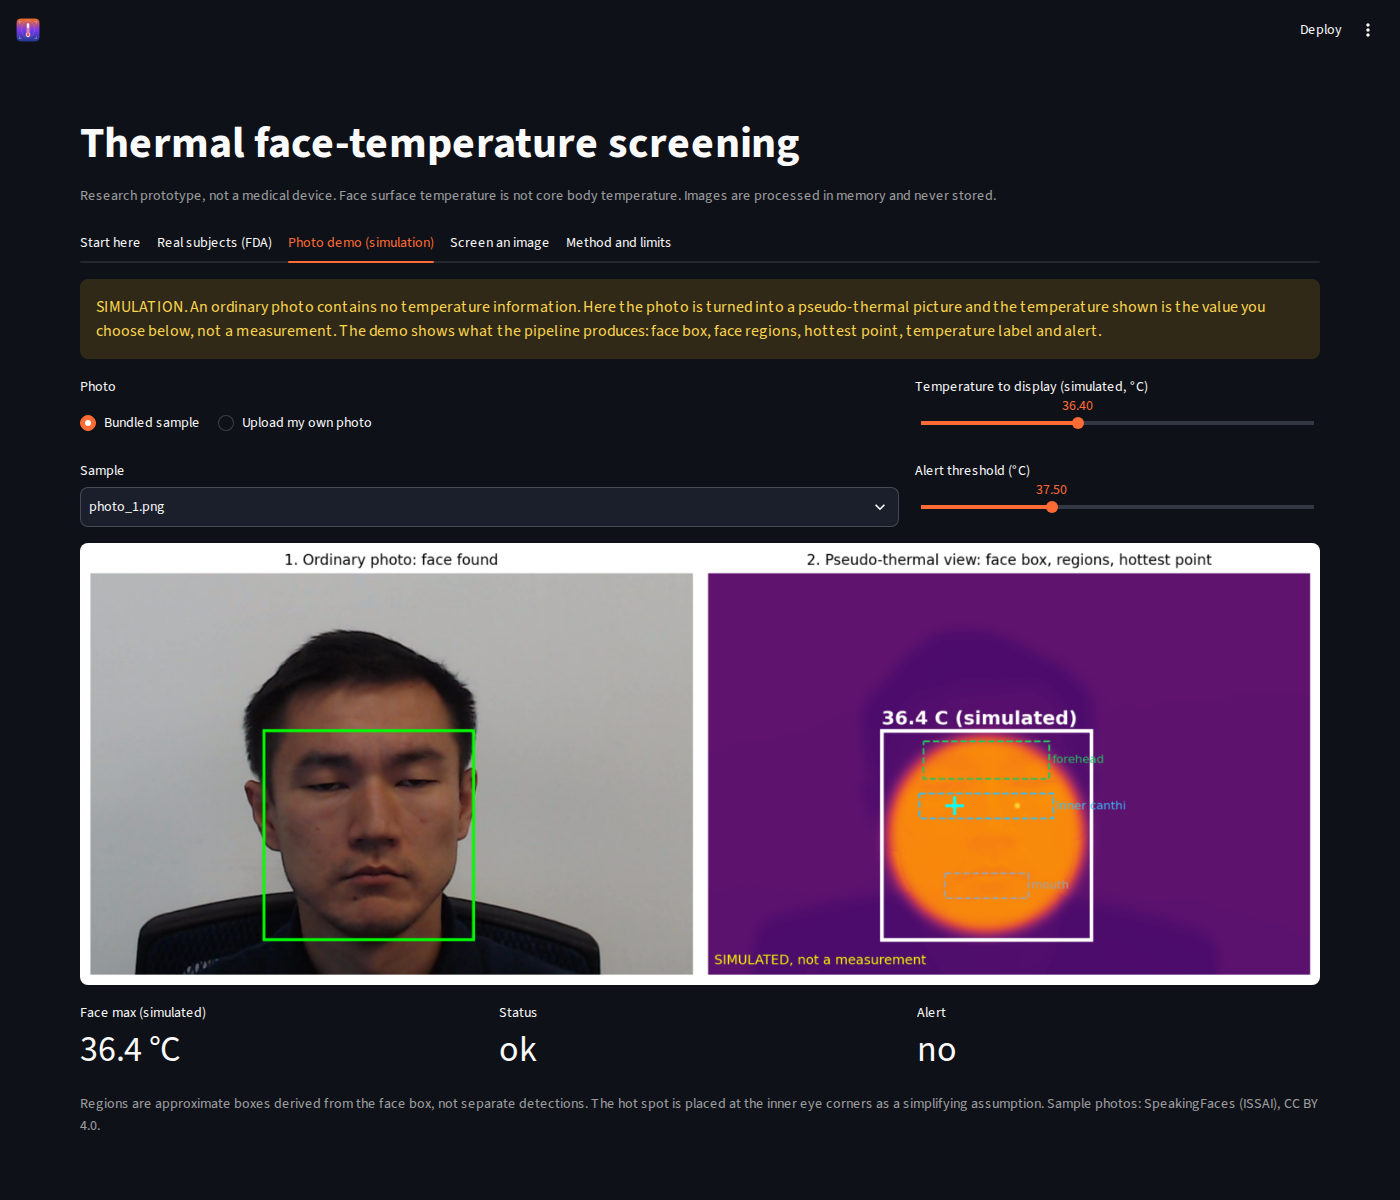
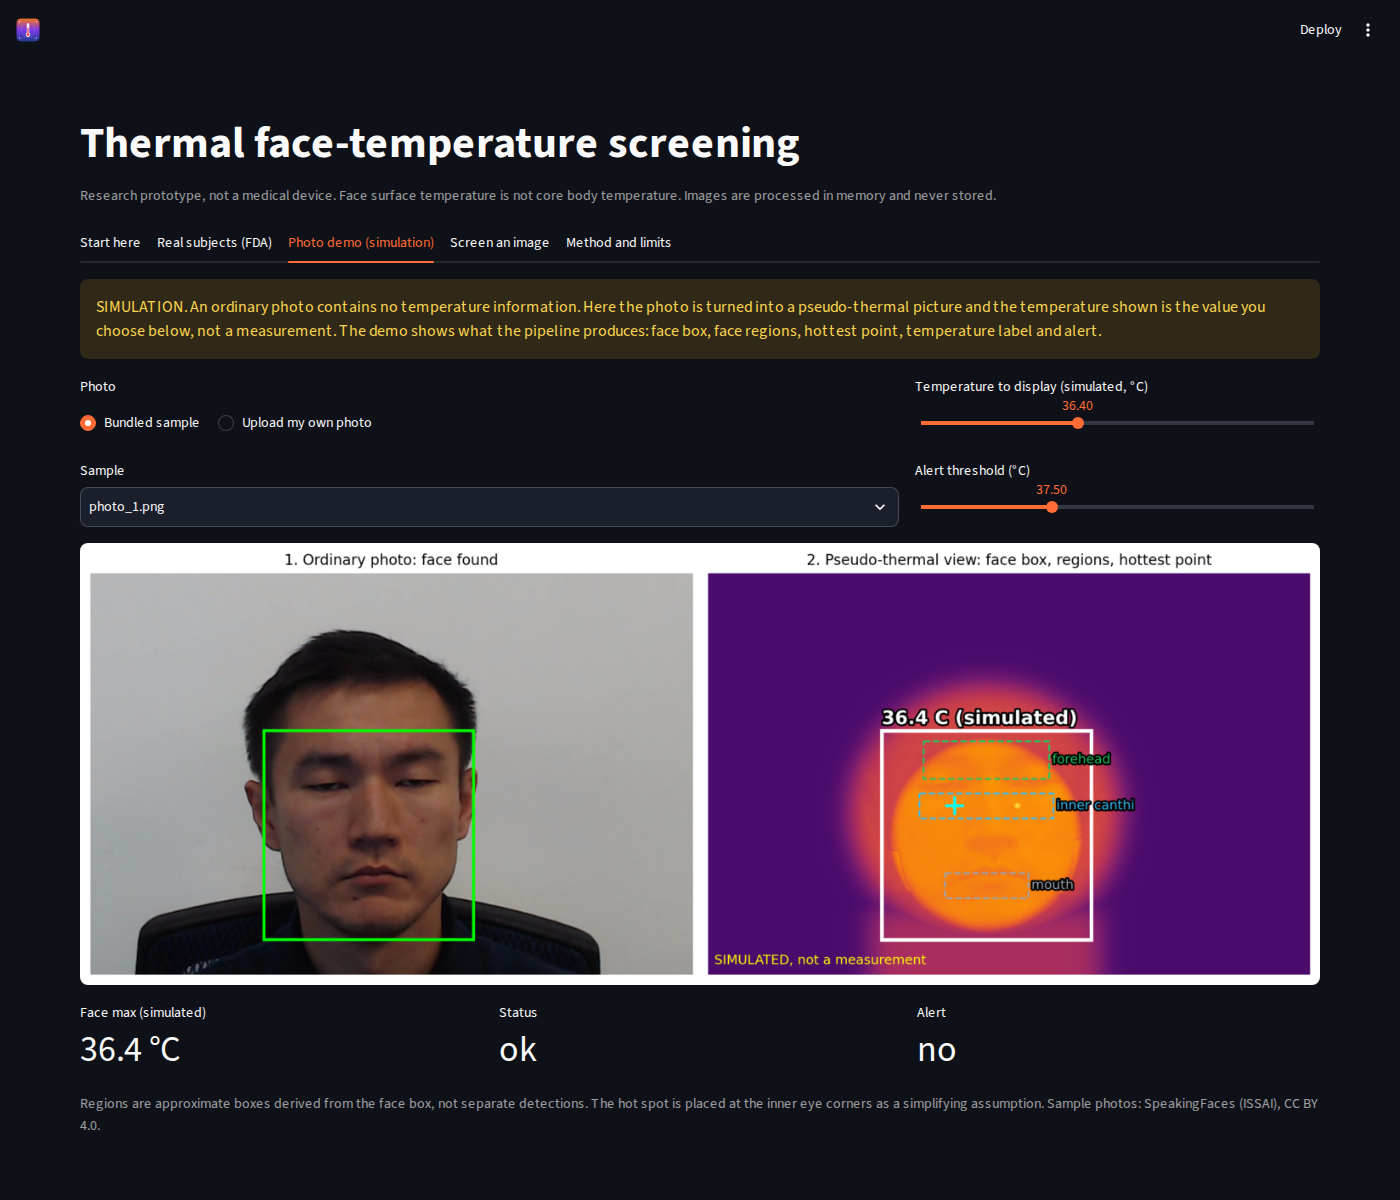
fix: add EGL libraries for MediaPipe on Streamlit Cloud; richer photo simulation; note round-4 hotspot shift

Changed region(s): [[0.5836, 0.555, 0.8293, 0.8325]]

diff --git a/src/pipeline/simulation.py b/src/pipeline/simulation.py
@@ -21,7 +21,9 @@ def region_boxes(box):
 
 
 def simulate_thermal(rgb, box, face_max_c, ambient_c=24.0, skin_offset_c=2.0):
-    """Returns (temp_c float32 HxW, (x, y) of the simulated hot spot). The maximum inside the box equals face_max_c."""
+    """Returns (temp_c float32 HxW, (x, y) of the simulated hot spot). The maximum inside the box equals face_max_c.
+    Face detail comes from the photo's local contrast (dark features such as brows and hair read cooler); hair, neck and
+    shoulders are set to fixed fractions of the skin temperature. All of it is illustrative."""
     if rgb.ndim != 3 or rgb.shape[2] != 3 or rgb.dtype != np.uint8:
         raise ValueError("expected an HxWx3 uint8 RGB photo")
     h, w = rgb.shape[:2]
@@ -30,14 +32,27 @@ def simulate_thermal(rgb, box, face_max_c, ambient_c=24.0, skin_offset_c=2.0):
     if x1 - x0 < 4 or y1 - y0 < 4:
         raise ValueError("face box too small")
     bw, bh = x1 - x0, y1 - y0
+    cx, cy = (x0 + x1) / 2.0, (y0 + y1) / 2.0
     gray = cv2.cvtColor(rgb, cv2.COLOR_RGB2GRAY).astype(np.float32) / 255.0
-    mask = np.zeros((h, w), np.float32)
-    cv2.ellipse(mask, (int((x0 + x1) / 2), int((y0 + y1) / 2)), (max(int(bw / 2 * 0.95), 1), max(int(bh / 2 * 0.95), 1)),
-                0, 0, 360, 1.0, -1)
-    mask = cv2.GaussianBlur(mask, (0, 0), max(1.0, bw * 0.03))
-    gray_s = cv2.GaussianBlur(gray, (0, 0), 6.0)
+    sigma = max(1.0, bw * 0.03)
+
+    def blob_ellipse(centre, axes, sig):
+        m = np.zeros((h, w), np.float32)
+        cv2.ellipse(m, (int(centre[0]), int(centre[1])), (max(int(axes[0]), 1), max(int(axes[1]), 1)), 0, 0, 360, 1.0, -1)
+        return cv2.GaussianBlur(m, (0, 0), sig)
+
+    face = blob_ellipse((cx, cy), (bw / 2 * 0.95, bh / 2 * 0.95), sigma)
+    head = blob_ellipse((cx, cy - 0.10 * bh), (bw / 2 * 1.30, bh / 2 * 1.25), sigma * 2)
+    body = np.zeros((h, w), np.float32)
+    body[min(int(y1 - 0.15 * bh), h):h, max(int(cx - 0.55 * bw), 0):min(int(cx + 0.55 * bw), w)] = 1.0       # neck
+    body[min(int(y1 + 0.35 * bh), h):h, max(int(cx - 1.6 * bw), 0):min(int(cx + 1.6 * bw), w)] = 1.0         # shoulders
+    body = cv2.GaussianBlur(body, (0, 0), sigma * 2)
+    gray_s = cv2.GaussianBlur(gray, (0, 0), 3.0)
+    lo, hi = np.percentile(gray[y0:y1, x0:x1], [2, 98])
+    gn = np.clip((gray - lo) / (hi - lo + 1e-6), 0.0, 1.0)
+    factor = np.maximum.reduce([body * 0.40, head * (0.55 + 0.10 * gray_s), face * (0.80 + 0.20 * gn)])
     skin = float(face_max_c) - skin_offset_c
-    t = ambient_c + (skin - ambient_c) * (0.12 * gray_s * (1.0 - mask) + mask * (0.85 + 0.15 * gray))
+    t = ambient_c + (skin - ambient_c) * factor
     spots = [(int(x0 + 0.35 * bw), int(y0 + 0.36 * bh)), (int(x0 + 0.65 * bw), int(y0 + 0.36 * bh))]
     yy, xx = np.mgrid[0:h, 0:w]
     for sx, sy in spots:

diff --git a/frontend/app.py b/frontend/app.py
@@ -13,6 +13,7 @@ import matplotlib
 matplotlib.use("Agg")
 import matplotlib.pyplot as plt
 from matplotlib.patches import Ellipse, Rectangle
+import matplotlib.patheffects as pe
 from PIL import Image
 from sklearn.linear_model import LinearRegression
 from sklearn.metrics import roc_auc_score, roc_curve
@@ -256,10 +257,10 @@ with tab_sim:
                 ax[1].add_patch(Rectangle((bx0, by0), bx1 - bx0, by1 - by0, fill=False, ec=colour, lw=2.5))
                 for (name, (rx0, ry0, rx1, ry1)), rc in zip(region_boxes(box).items(), ["#22c55e", "#38bdf8", "#9ca3af"]):
                     ax[1].add_patch(Rectangle((rx0, ry0), rx1 - rx0, ry1 - ry0, fill=False, ec=rc, lw=1.2, ls="--"))
-                    ax[1].text(rx1 + 4, (ry0 + ry1) / 2, name, color=rc, fontsize=8, va="center")
+                    ax[1].text(rx1 + 4, (ry0 + ry1) / 2, name, color=rc, fontsize=9, va="center", path_effects=[pe.withStroke(linewidth=2.5, foreground="black")])
                 if r.hotspot is not None:
                     ax[1].scatter([r.hotspot[0]], [r.hotspot[1]], marker="+", s=160, c="cyan", linewidths=2)
-                ax[1].text(bx0, max(by0 - 8, 14), f"{r.face_max_c:.1f} C (simulated)", color=colour, fontsize=13, fontweight="bold")
+                ax[1].text(bx0, max(by0 - 8, 14), f"{r.face_max_c:.1f} C (simulated)", color=colour, fontsize=13, fontweight="bold", path_effects=[pe.withStroke(linewidth=2.5, foreground="black")])
             ax[1].text(0.01, 0.02, "SIMULATED, not a measurement", transform=ax[1].transAxes, color="yellow", fontsize=9, va="bottom")
             ax[1].set_title("2. Pseudo-thermal view: face box, regions, hottest point", fontsize=10)
             for a in ax:

diff --git a/README.md b/README.md
@@ -109,7 +109,7 @@ One FLIR camera at about 0.8 m, 1,020 subjects, linear calibration with 5-fold c
 *Where the hottest point of the face lies, in 1003 FDA volunteers (round 1): the inner-canthus region (the inner corners of the eyes) contains it in 66%, the forehead region in 17% and the mouth region in 21% of volunteers; 7% have it elsewhere. Regions overlap, so the shares can add up to more than 100%. The four bar groups are the four measurement rounds. This answers "where does the reading come from" with measurements; the temperature is a pixel maximum, not a neural-network output, so Grad-CAM does not apply.*
 
 * Threshold 37.2 °C gives sensitivity 0.95 and specificity 0.84 with four-round features, but it was chosen on the same data and is exploratory only.
-* Round 4 sits about 0.4 °C below rounds 1 to 3 (per-round residual means +0.15, +0.07, +0.06, -0.29 °C). The cause was not investigated.
+* Round 4 sits about 0.4 °C below rounds 1 to 3 (per-round residual means +0.15, +0.07, +0.06, -0.29 °C). A possible explanation: in round 4 the hottest point lies in the mouth region for 91% of volunteers, against 21% in round 1 (see the hotspot figure). The dataset documentation was not checked to confirm what round 4 involves.
 * The saved calibration (slope 0.587, intercept 15.84) is valid for the FDA camera and ROI definition only. Applied to Charlotte-ThermalFace it would flag healthy volunteers.
 
 ### 2. Distance effect and where the maximum comes from (Charlotte-ThermalFace)
